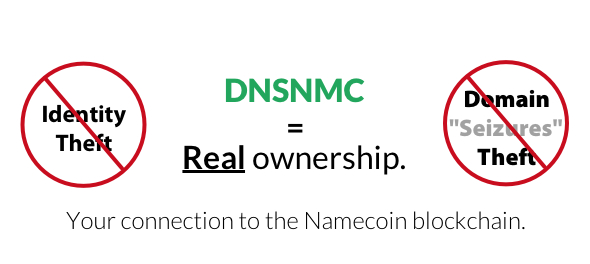
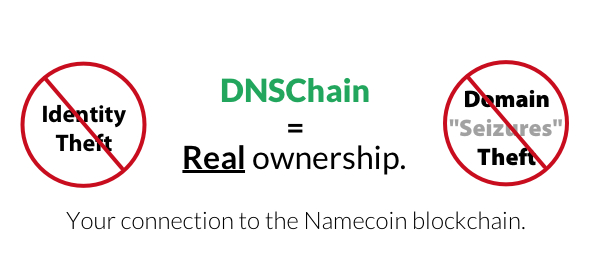
DNSNMC -> DNSChain

Changed region(s): [[0.3661, 0.2727, 0.6407, 0.3939]]

diff --git a/index.html b/index.html
@@ -3,7 +3,7 @@
 <head>
     <meta charset="UTF-8" />
 
-    <title>okTurtles + DNSNMC :: Surveillance-free communication on your favorite websites</title>
+    <title>okTurtles + DNSChain :: Surveillance-free communication on your favorite websites</title>
     <meta name="viewport" content="width=device-width, initial-scale=1.0"> 
     <meta name="description" content="okTurtles makes surveillance-free communication possible on your favorite websites" />
     <meta name="keywords" content="okTurtles, security, dnsnmc, namecoin, bitcoin, dnssec, security, surveillance, surviellance, nsa, https, certificate authorities, ssl certificates" />
@@ -12,7 +12,7 @@
     
         <!-- social sharing metadata -->
     <meta property="og:title" content="okTurtles: Surveillance-free communication on your favorite websites" />
-    <meta property="og:description" content="okTurtles brings NSA-proof messages to your favorite websites. DNSNMC is your connection to the Namecoin blockchain." />
+    <meta property="og:description" content="okTurtles brings NSA-proof messages to your favorite websites. DNSChain is your connection to the Namecoin blockchain." />
 
     <meta property="og:image" content="http://okturtles.com/img/simple@2x.jpg">
     <meta property="og:image:type" content="image/jpeg">
@@ -24,9 +24,7 @@
     <meta property="og:image:width" content="590">
     <meta property="og:image:height" content="264">
 
-
     <!-- <link rel="shortcut icon" href="favicon.ico"> -->
-
 
     <script src="//cdnjs.cloudflare.com/ajax/libs/jquery/2.0.3/jquery.min.js" ></script>
     <script src="//cdnjs.cloudflare.com/ajax/libs/gsap/latest/TweenMax.min.js"></script>
@@ -75,16 +73,14 @@
             <li><a onclick="$.scrollTo('#not-secure', 400);">The web is not secure</a></li>
             <li><a onclick="$.scrollTo('#open-source', 400);">Open Source Freedom</a></li>
             <li><a onclick="$.scrollTo('#name-coin', 400);">Freedom has a Namecoin</a></li>
-            <li><a onclick="$.scrollTo('#oktvs', 400);">okT + DNSNMC vs. ______</a></li>
+            <li><a onclick="$.scrollTo('#oktvs', 400);">okT + DNSChain vs. ______</a></li>
             <li><a onclick="$.scrollTo('#faq', 400);">FAQ</a></li>
             <li><a onclick="$.scrollTo('#memory-of', 400);">In Memory Of</a></li>
             <li><a onclick="$.scrollTo('#kickstarter', 400);">Kickstarter</a></li>
         </ul>
     </nav>
 
-
     <a href="#"><img id="kik" class="hide_kik" src="img/kik.png" data-at2x="img/kik@2x.png" alt=""></a>
-
 
     <div class="container">
         <div class="cbp-so-scroller">
@@ -137,7 +133,7 @@
                 <article class="cbp-so-side cbp-so-side-center">
                     <h2>The web is not secure</h2>
                     <p>
-                        HTTPS is <a href="https://www.eff.org/deeplinks/2011/10/how-secure-https-today" target="_blank">broken</a>. <a href="http://okturtles.com/#DNSNMC">DNSNMC</a> fixes it.
+                        HTTPS is <a href="https://www.eff.org/deeplinks/2011/10/how-secure-https-today" target="_blank">broken</a>. <a href="#DNSChain">DNSChain</a> fixes it.
                     </p>
                     <p>
 
@@ -162,7 +158,7 @@
                     <img class="features" src="img/simple.jpg" data-at2x="img/simple@2x.jpg" alt="zero conf">
                 </article>
                 <article class="cbp-so-side cbp-so-side-right right ">
-                    <p><b>NSA-proof communication through almost any website, with <i>zero</i> intervention needed from the site operators.</b> okTurtles is designed with the potential to work over almost any website. All it needs to create an encrypted message for someone is the <i>identity</i> of that person, specifically, their <a href="https://en.wikipedia.org/wiki/Public-key_cryptography" target="_blank">public key</a>. Unlike <a href="https://en.wikipedia.org/wiki/Certification_authority" target="_blank">the system</a> that HTTPS uses today, okTurtles is able to securely obtain this information by using <a href="#DNSNMC">DNSNMC</a>.</p>
+                    <p><b>NSA-proof communication through almost any website, with <i>zero</i> intervention needed from the site operators.</b> okTurtles is designed with the potential to work over almost any website. All it needs to create an encrypted message for someone is the <i>identity</i> of that person, specifically, their <a href="https://en.wikipedia.org/wiki/Public-key_cryptography" target="_blank">public key</a>. Unlike <a href="https://en.wikipedia.org/wiki/Certification_authority" target="_blank">the system</a> that HTTPS uses today, okTurtles is able to securely obtain this information by using <a href="#DNSChain">DNSChain</a>.</p>
                 </article>
 
             </section>
@@ -178,7 +174,6 @@
                         especially when you're asked to pay every year and are given
                         a certificate that <b>doesn't do what it's supposed to do: provide
                             your vistors with security.</b>
-
                         Companies that sell SSL certificates mislead their customers into
                         believing that these certificates protect browser-server communication from all eavesdropping and tampering. As elaborated
                         in <a href="#paper">our paper</a>, this simply isn’t true today.
@@ -190,47 +185,57 @@
             <section  class="cbp-so-section section_color_middle">
 
                 <article class="cbp-so-side cbp-so-side-left left ">
-                    <img class="features" src="img/theft.jpg" data-at2x="img/theft@2x.jpg" alt="DNSNMC = Real Ownership. Say good-bye to identity theft and domain theft.">
+                    <img class="features" src="img/theft.jpg" data-at2x="img/theft@2x.jpg" alt="DNSChain = Real Ownership. Say good-bye to identity theft and domain theft.">
                 </article>
                 <article class="cbp-so-side cbp-so-side-right right ">
                     <p>
                         <b>Say good-bye to identity theft and "domain seizures".</b>
-                        Thanks to <a href="#DNSNMC">DNSNMC</a> (Namecoin-powered
+                        Thanks to <a href="#DNSChain">DNSChain</a> (Namecoin-powered
                         DNS), your online identity actually belong to <u>you</u>.
                         That is, when someone visits your website, they can be
                         assured that it actually belongs to you, and won't be stolen
-                        from you.<sup><a href="#" class="footnote-button" data-footnote-identifier="1" alt="See Footnote 1" rel="footnote" data-footnote-content="As long as your password is not compromised/stolen.">1</a></sup> Protection from identity theft is provided because when someone uses okTurtles/DNSNMC to communicate with you, 
+                        from you.<sup><a href="#" class="footnote-button" data-footnote-identifier="1" alt="See Footnote 1" rel="footnote" data-footnote-content="As long as your password is not compromised/stolen.">1</a></sup> Protection from identity theft is provided because when someone uses okTurtles/DNSChain to communicate with you, 
                         they don't have to worry that they're communicating with an imposter, or that there's a <a href="https://en.wikipedia.org/wiki/Man-in-the-middle_attack" target="_blank">"man in the middle"</a> recording the entire conversation.
-                        Protection from <a href="http://torrentfreak.com/the-pirate-bay-moves-to-ac-after-domain-name-seizure-131210/" target="_blank">domain seizures</a> (government-sanctioned theft) is an inherent property of DNSNMC and Namecoin.<!--  <b>Theft is theft,</b> and the only reason this type of criminal behavior exists today is because the technology makes it possible. -->
+                        Protection from <a href="http://torrentfreak.com/the-pirate-bay-moves-to-ac-after-domain-name-seizure-131210/" target="_blank">domain seizures</a> (government-sanctioned theft) is an inherent property of DNSChain and Namecoin.<!--  <b>Theft is theft,</b> and the only reason this type of criminal behavior exists today is because the technology makes it possible. -->
                     </p>
                 </article>
 
             </section>
-            <a name="DNSNMC"></a><a name="paper"></a>
+            <a name="DNSChain"></a><a name="paper"></a>
             <section class="cbp-so-section section_color_top" id="name-coin">
                 <article class="cbp-so-side cbp-so-side-center">
                     <h2>Freedom has a Name<span class="green">coin</span></h2>
-                    <p>These features are possible thanks to <b>DNSNMC.</b></p>
-                    <p><b>DNSNMC = DNS + <a href="http://namecoin.info/" target="_blank">Namecoin</a> (+ HTTP)</b></p>
+                    <p>These features are possible thanks to <b>DNSChain</b> (formerly DNSNMC).</p>
+                    <p><b>DNSChain = <a href="https://github.com/okTurtles/dnschain" target="_blank">DNS + HTTP(S) + Namecoin</a></b></p>
                     <p style="margin-top: 30px; margin-bottom:30px;">
                     </p>
-                    <a href="other/dnsnmc_okturtles_overview.pdf"><img src="img/pdf.svg" style="width:70px" alt="DNSNMC + okTurtles Overview.pdf" ></a>
-                    <p style="margin-top: 5px">
-                        <a href="other/dnsnmc_okturtles_overview.pdf">DNSNMC + okTurtles.pdf (v1.0)</a>
-                    </p>
-                       Click the icon above to learn how DNSNMC and okTurtles work.
+                    <div style="width:510px; text-align:center; margin: 0 auto">
+                        <div style="display:inline-block; width:250px">
+                            <a href="https://github.com/okTurtles/dnschain" target="_blank"><img src="img/GitHub-Mark.png" data-at2x="img/GitHub-Mark@2x.png"></a>
+                            <p style="margin-top: 5px">
+                                <a href="https://github.com/okTurtles/dnschain" target="_blank">DNSChain on GitHub</a>
+                            </p>
+                        </div>
+                        <div style="display:inline-block; width:250px">
+                            <a href="other/dnsnmc_okturtles_overview.pdf"><img src="img/pdf.svg" style="width:70px" alt="DNSChain + okTurtles Overview.pdf" ></a>
+                            <p style="margin-top: 5px">
+                                <a href="other/dnsnmc_okturtles_overview.pdf">DNSChain + okTurtles.pdf</a>
+                            </p>
+                        </div>
+                    </div>
+                   Click on the icons above to learn more about DNSChain and okTurtles.
                 </article>
             </section>
 
             <section  class="cbp-so-section section_color_middle" id="oktvs">
                 <article class="cbp-so-side cbp-so-side-center">
-                    <h2>ok<span class="green">T</span> + DNSNMC vs. ______</h2>
+                    <h2>ok<span class="green">T</span> + DNSChain vs. ______</h2>
                     <h3 class="h3_sub"><a href="http://www.certificate-transparency.org/original-proposal" target="_blank">Certificate Transparency</a></h3>
                     <p>Google's Certificate Transparency proposal wants certificate authorities (CAs) to "make a note" all of the certificates that they issue into a log somewhere protected in someway and verified via some mechanism. The <a href="other/Original_Proposal_-_Certificate_Transparency.pdf" target="_blank">original proposal</a> is almost this vague. Website owners are then asked to monitor these logs to see if their clients <b>were</b> hacked, in addition to continuing to pay the CAs money for the worthless certificates they provide. We think this proposal makes an excellent case against itself, and we don't find this at all surprising. Companies (like Google) that exploit their customer's information for profit are unlikely to provide meaningful leadership on security because it would hurt their business.</p>
                     <h3 class="h3_sub">DNSSEC</h3>
                     <p><a href="http://www.icann.org/en/about/learning/factsheets/dnssec-qaa-09oct08-en.htm" target="_blank">DNSSEC</a> suggests a complicated mechanism to essentially re-create many of the same problems with X509 and CAs in DNS itself, by providing a chain of trust to untrustworthy entities. Its intended goal is to secure DNS and thereby assure clients that when they ask for apple.com, they are actually visiting apple.com. This proposal <a href="http://comments.gmane.org/gmane.comp.encryption.general/16353" target="_blank">does not appear to protect against genuine MITM attacks</a>. It also suffers for extreme, unnecessary complexity, which is never a good thing in the design of secure systems. See <a href="http://ianix.com/pub/dnssec-outages.html" target="_blank">this link</a> for additional reasons why DNSSEC is a bad idea in general.</p>
                     <h3 class="h3_sub">Bitmessage</h3>
-                    <p><a href="https://bitmessage.org/wiki/Main_Page" target="_blank">Bitmessage</a> belongs to the same family of software that okTurtles and DNSNMC belong to, however it is also very different from them. Bitmessage focuses on providing anonymity to its users first and foremost. For reasons unknown to this author it was not designed to use the Namecoin blockchain, and instead uses its own (though there is nothing preventing integration between the two, and indeed work has <a href="https://bitmessage.org/forum/index.php?topic=2563.0" target="_blank">been done</a> in this area). Bitmessage, however, has a few problems that okTurtles does not have: (1) it does not work over existing websites or protocols (like email) and was not designed with this intention, (2) to quote <a href="other/bitmessage.pdf" target="_blank">the paper</a>: "The difficulty of the proof‐of‐work should be proportional to the size of the message and should be set such that <i>an average computer must expend an average of four minutes of work in order to send a typical message.</i>" (3) It requires constantly running a program in the background (and one that isn't feasible on most mobile devices), and (4) messages take a long time to get to their destination because: "Just like Bitcoin transactions and blocks, all users would receive all messages. They would be responsible for attempting to decode each message with each of their private keys to see whether the message is bound for them."</p>
+                    <p><a href="https://bitmessage.org/wiki/Main_Page" target="_blank">Bitmessage</a> belongs to the same family of software that okTurtles and DNSChain belong to, however it is also very different from them. Bitmessage focuses on providing anonymity to its users first and foremost. For reasons unknown to this author it was not designed to use the Namecoin blockchain, and instead uses its own (though there is nothing preventing integration between the two, and indeed work has <a href="https://bitmessage.org/forum/index.php?topic=2563.0" target="_blank">been done</a> in this area). Bitmessage, however, has a few problems that okTurtles does not have: (1) it does not work over existing websites or protocols (like email) and was not designed with this intention, (2) to quote <a href="other/bitmessage.pdf" target="_blank">the paper</a>: "The difficulty of the proof‐of‐work should be proportional to the size of the message and should be set such that <i>an average computer must expend an average of four minutes of work in order to send a typical message.</i>" (3) It requires constantly running a program in the background (and one that isn't feasible on most mobile devices), and (4) messages take a long time to get to their destination because: "Just like Bitcoin transactions and blocks, all users would receive all messages. They would be responsible for attempting to decode each message with each of their private keys to see whether the message is bound for them."</p>
                     <h3 class="h3_sub">Convergence</h3>
                     <p>In <a href="http://convergence.io/details.html" target="_blank">their words</a>, Convergence "is a secure replacement for the Certificate Authority System. Rather than employing a traditionally hard-coded list of immutable CAs, Convergence allows you to configure a dynamic set of Notaries which use network perspective to validate your communication." In our words: Convergence is similar to having a <i>known_hosts</i> ssh key file for your browser, and comparing it against your friend’s file. It's not a terrible idea, however, the website claims that it’s simple to use, which we have to disagree with because users are asked to manage a list of notaries. It depends on group consensus, but the group might not be very bright. What happens then? It also does not provide MITM protection on first-visit, and all of the notary info appears to be stored locally to the computer, or even the browser. That is rather inconvenient for most users.</p>
                     <h3 class="h3_sub">More to come...</h3>
@@ -278,7 +283,7 @@ more coming soon! :)
                             </p>
                         </div>
                         <h3 class="faq_question">Who's behind these projects?</h3>
-                        <p class="faq_answer">okTurtles and DNSNMC are the brainchildren of <a href="https://twitter.com/taoeffect" target="_blank">Greg Slepak</a>, but he did not invent every aspect of these concepts. He's grateful to Aaron Swartz for <a href="http://www.aaronsw.com/weblog/squarezooko" target="_blank">turning him on to the idea</a>, and for <a href="https://jumpshare.com/v/ApygO7yCaOhisjZtGU0d" target="_blank">answering</a> some of his questions about it. Of course, none of this would be possible if it wasn't for Satoshi Nakamoto's historic <a href="http://bitcoin.org/bitcoin.pdf" target="_blank">paper</a> on Bitcoin, and the entire Namecoin <a href="http://dot-bit.org/forum/index.php" target="_blank">community</a>.
+                        <p class="faq_answer">okTurtles and DNSChain are the brainchildren of <a href="https://twitter.com/taoeffect" target="_blank">Greg Slepak</a>, but he did not invent every aspect of these concepts. He's grateful to Aaron Swartz for <a href="http://www.aaronsw.com/weblog/squarezooko" target="_blank">turning him on to the idea</a>, and for <a href="https://jumpshare.com/v/ApygO7yCaOhisjZtGU0d" target="_blank">answering</a> some of his questions about it. Of course, none of this would be possible if it wasn't for Satoshi Nakamoto's historic <a href="http://bitcoin.org/bitcoin.pdf" target="_blank">paper</a> on Bitcoin, and the entire Namecoin <a href="http://dot-bit.org/forum/index.php" target="_blank">community</a>.
                         <br/> <br/>
                         <a href="https://twitter.com/willstanley95" target="_blank">Will Stanley</a> is chiefly responsible for this website's design. He has a passion for clean, simple, beautiful design.
                         <br/> <br/>
@@ -291,7 +296,7 @@ more coming soon! :)
                         </p>
                         <h3 class="faq_question">Is this "vaporware"?</h3>
                         <p class="faq_answer">
-                            Absolutely not! We have a functioning (though incomplete) version of DNSNMC already written (it's less than a hundred lines of JavaScript to get a basic version running in Node.js!). Even if we were not able to complete this project ourselves (for whatever reason), the idea is <b><i>so simple</i></b> to implement that it is virtually guaranteed to happen. okTurtles is a tad more complicated and requires a community effort to keep it running smoothly on third-party sites, but it's readily doable. Most of the design has been explained in <a href="other/dnsnmc_okturtles_overview.pdf" target="_blank">our paper</a>, all that remains is to implement it. <b>Github <a href="https://github.com/okturtles" target="_blank">project pages</a> will be brought online shortly!</b>
+                            Absolutely not! We have a functioning (though incomplete) version of DNSChain already written (it's less than a hundred lines of JavaScript to get a basic version running in Node.js!). Even if we were not able to complete this project ourselves (for whatever reason), the idea is <b><i>so simple</i></b> to implement that it is virtually guaranteed to happen. okTurtles is a tad more complicated and requires a community effort to keep it running smoothly on third-party sites, but it's readily doable. Most of the design has been explained in <a href="other/dnsnmc_okturtles_overview.pdf" target="_blank">our paper</a>, all that remains is to implement it. <b>Github <a href="https://github.com/okturtles" target="_blank">project pages</a> will be brought online shortly!</b>
                         </p>
                         <h3 class="faq_question">Are you going to update this site soon with more info?</h3>
                         <p class="faq_answer">Yup.</p>
@@ -366,11 +371,10 @@ more coming soon! :)
                     <a name="kickstarter"></a>
                     <h3 class="kik_coming_soon kik_coming_soon_hide">Kickstarter Coming Soon!</h3>
 
-
                     <a href="blog/" class="link" target="_blank">blog</a>
                     <a href="#contactEmail" class="link fancybox">contact</a>
                     <a href="https://twitter.com/okturtles" class="link" target="_blank">twitter</a>
-                    <a href="http://dot-bit.org/forum/index.php" class="link" target="_blank">community</a>
+                    <a href="https://github.com/okTurtles" class="link" target="_blank">source</a>
                     <!-- <a href="https://dot-bit.org/forum/index.php" class="link" name="getinvolved" target="_blank">get involved</a> -->
                     </div>
 

diff --git a/js/main.js b/js/main.js
@@ -14,7 +14,7 @@ TimelineLite.prototype.addDelay = function(delay, position) {
 };
 
 $(function() {
-  var $faq, $firstImg, $firstTxt, $service, $slides, $subtitle, $tagline, IMG_WIDTH, SLIDE_IMG_CENTER, SLIDE_PADDING, SLIDE_TXT_CENTER, SLIDE_TXT_LEFT, SLIDE_TXT_PADDING, STAGGER_AMOUNT, TIME_FOR_IMG_DISPLAY, TIME_PER_ANIMATION, TXT_MARGIN, debug, fadeIn, fadeOut, fragment, navBoundary, navNeedsUpdate, tl;
+  var $faq, $firstImg, $firstTxt, $service, $slides, $subtitle, $tagline, IMG_WIDTH, SLIDE_IMG_CENTER, SLIDE_PADDING, SLIDE_TXT_CENTER, SLIDE_TXT_LEFT, SLIDE_TXT_PADDING, STAGGER_AMOUNT, TIME_FOR_IMG_DISPLAY, TIME_PER_ANIMATION, TXT_MARGIN, debug, fadeIn, fadeOut, fragment, tl;
   $(".faq h3").next().hide();
   $(".faq h3").wrap('<a href="#"></a>').click(function(a, obj) {
     var _ref;
@@ -153,9 +153,8 @@ $(function() {
   });
   tl.play();
   fragment = window.location.hash.slice(1);
-  $.scrollTo(0);
   if (fragment && ($faq = $(".faq h3[name='" + fragment + "']")).length !== 0) {
-    $.scrollTo($faq, {
+    return $.scrollTo($faq, {
       duration: 500,
       margin: true,
       onAfter: function() {
@@ -176,24 +175,21 @@ $(function() {
       }
     });
   }
-  navBoundary = 100;
-  navNeedsUpdate = (function() {
-    var prevPos;
-    prevPos = $(window).scrollTop();
-    return function() {
-      var curPos, update;
-      curPos = $(window).scrollTop();
-      update = curPos < navBoundary ? prevPos > navBoundary : prevPos < navBoundary;
-      return update && (prevPos = curPos);
-    };
-  })();
-  return $(window).scroll(function() {
-    var pos;
-    if (typeof (pos = navNeedsUpdate()) === 'number') {
-      return TweenMax.to($('nav'), 0.4, {
-        overwrite: true,
-        autoAlpha: pos >= navBoundary ? 1 : 0
-      });
-    }
-  });
 });
+
+
+/* TODO: enable once we get responsive css working with this, and then scroll the highlighted section.
+     * nav
+    navBoundary = 100
+    navNeedsUpdate = do ->
+        prevPos = $(window).scrollTop()
+        ->
+            curPos = $(window).scrollTop() 
+            update = if curPos < navBoundary then prevPos > navBoundary else prevPos < navBoundary
+            update and prevPos = curPos
+
+    $(window).scroll ->
+         * note that 0 position could be returned, and it has a truthy value of false
+        if typeof (pos = navNeedsUpdate()) is 'number'
+            TweenMax.to $('nav'), 0.4, {overwrite:true, autoAlpha: if pos >= navBoundary then 1 else 0}
+ */
